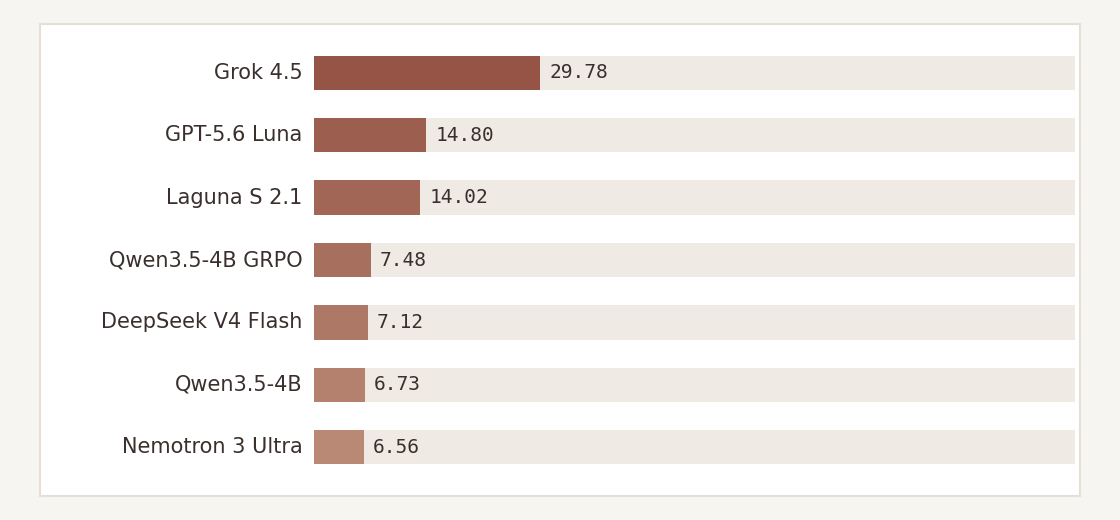
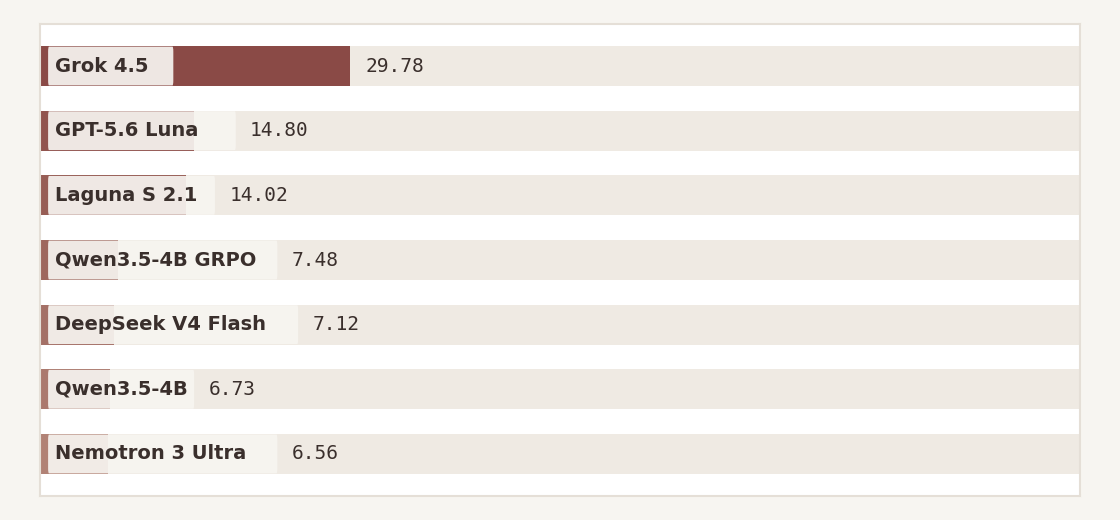
Put model names on the benchmark bars and drop the README table.
Names sit on the chart tracks with scores; the duplicate markdown table is removed.

diff --git a/README.md b/README.md
@@ -30,16 +30,6 @@ Protocol-failed episodes are dropped from each model mean.
 
 ![Live-Y capacity-400 scoreboard](docs/assets/live-y-capacity-400-benchmark.png)
 
-| Model | Mean cost \(\overline{C}\) | Score |
-| --- | ---: | ---: |
-| Grok 4.5 | 964.6 | 29.78 |
-| GPT-5.6 Luna | 1941.2 | 14.80 |
-| Laguna S 2.1 (free) | 2584.4 | 14.02 |
-| Qwen3.5-4B GRPO | 3838.9 | 7.48 |
-| DeepSeek V4 Flash | 4031.3 | 7.12 |
-| Qwen3.5-4B (untrained) | 4264.7 | 6.73 |
-| Nemotron 3 Ultra (free) | 5379.0 | 6.56 |
-
 Artifacts: [`artifacts/live_y_capacity_400/evaluations/`](artifacts/live_y_capacity_400/evaluations/).
 
 ### Scoring
